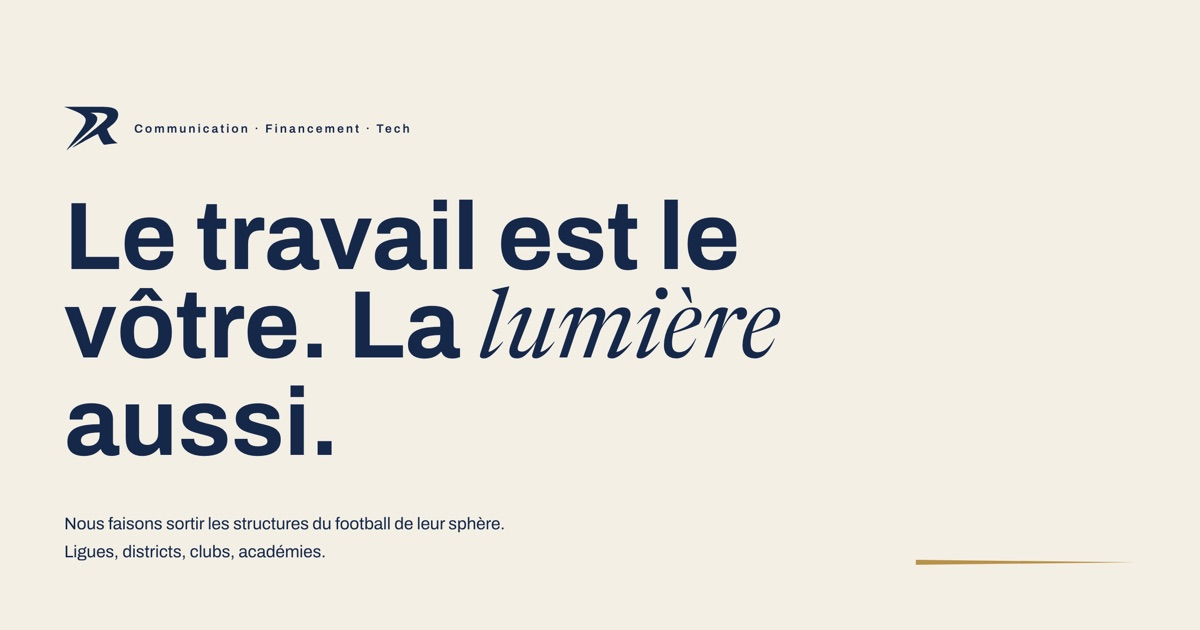
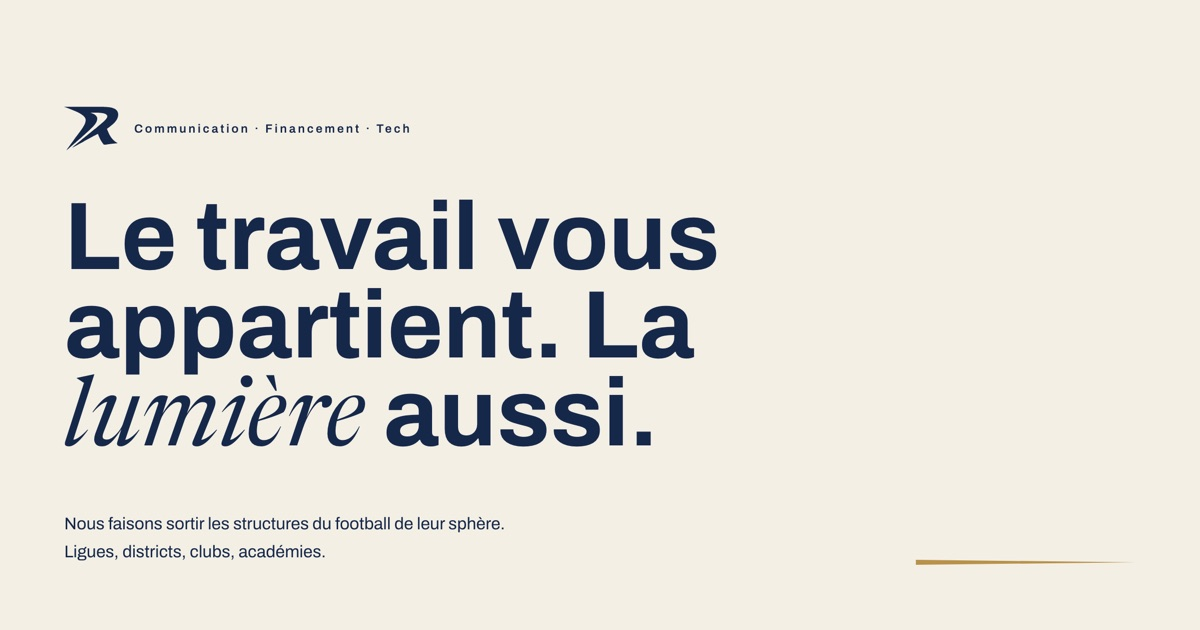
Accroche : « Le travail vous appartient. La lumière aussi. »
« Est le vôtre » constatait ; « vous appartient » agit. Sur un site dont
tout le propos est de rendre le mérite au client, le verbe travaille mieux
que le constat.

Appliqué à l'accueil, au gabarit de l'image de partage (régénérée), et à
la ligne « Aucune signature » des règles du jeu, qui reprend désormais la
même formule — le refrain renforce plutôt qu'il ne répète.

La page À propos garde « le travail que nous produisons est le vôtre » :
construction différente, à sa place dans un paragraphe.

Changed region(s): [[0.0308, 0.3016, 0.6475, 0.7238]]

diff --git a/src/app/page.tsx b/src/app/page.tsx
@@ -20,7 +20,7 @@ export default function AccueilPage() {
         <div className="hero__contenu">
           <Etiquette texte="Communication · Financement · Tech" />
           <h1 className="titre-accueil">
-            Le travail est le vôtre. La <em className="rg-recit">lumière</em> aussi.
+            Le travail vous appartient. La <em className="rg-recit">lumière</em> aussi.
           </h1>
           <p className="chapo">
             Nous faisons sortir les structures du football de leur sphère.

diff --git a/src/app/og/page.tsx b/src/app/og/page.tsx
@@ -49,7 +49,7 @@ export default function GabaritPartage() {
           className="display"
           style={{ margin: 0, maxWidth: "16ch" }}
         >
-          Le travail est le vôtre. La <em className="rg-recit">lumière</em> aussi.
+          Le travail vous appartient. La <em className="rg-recit">lumière</em> aussi.
         </h1>
       </div>
 

diff --git a/src/app/methode/page.tsx b/src/app/methode/page.tsx
@@ -51,7 +51,7 @@ const REGLES: { mot: string; texte: string }[] = [
   },
   {
     mot: "Aucune signature",
-    texte: "Regista n'appose jamais son nom sur vos livrables. Le travail est le vôtre.",
+    texte: "Regista n'appose jamais son nom sur vos livrables. Le travail vous appartient.",
   },
 ];
 
